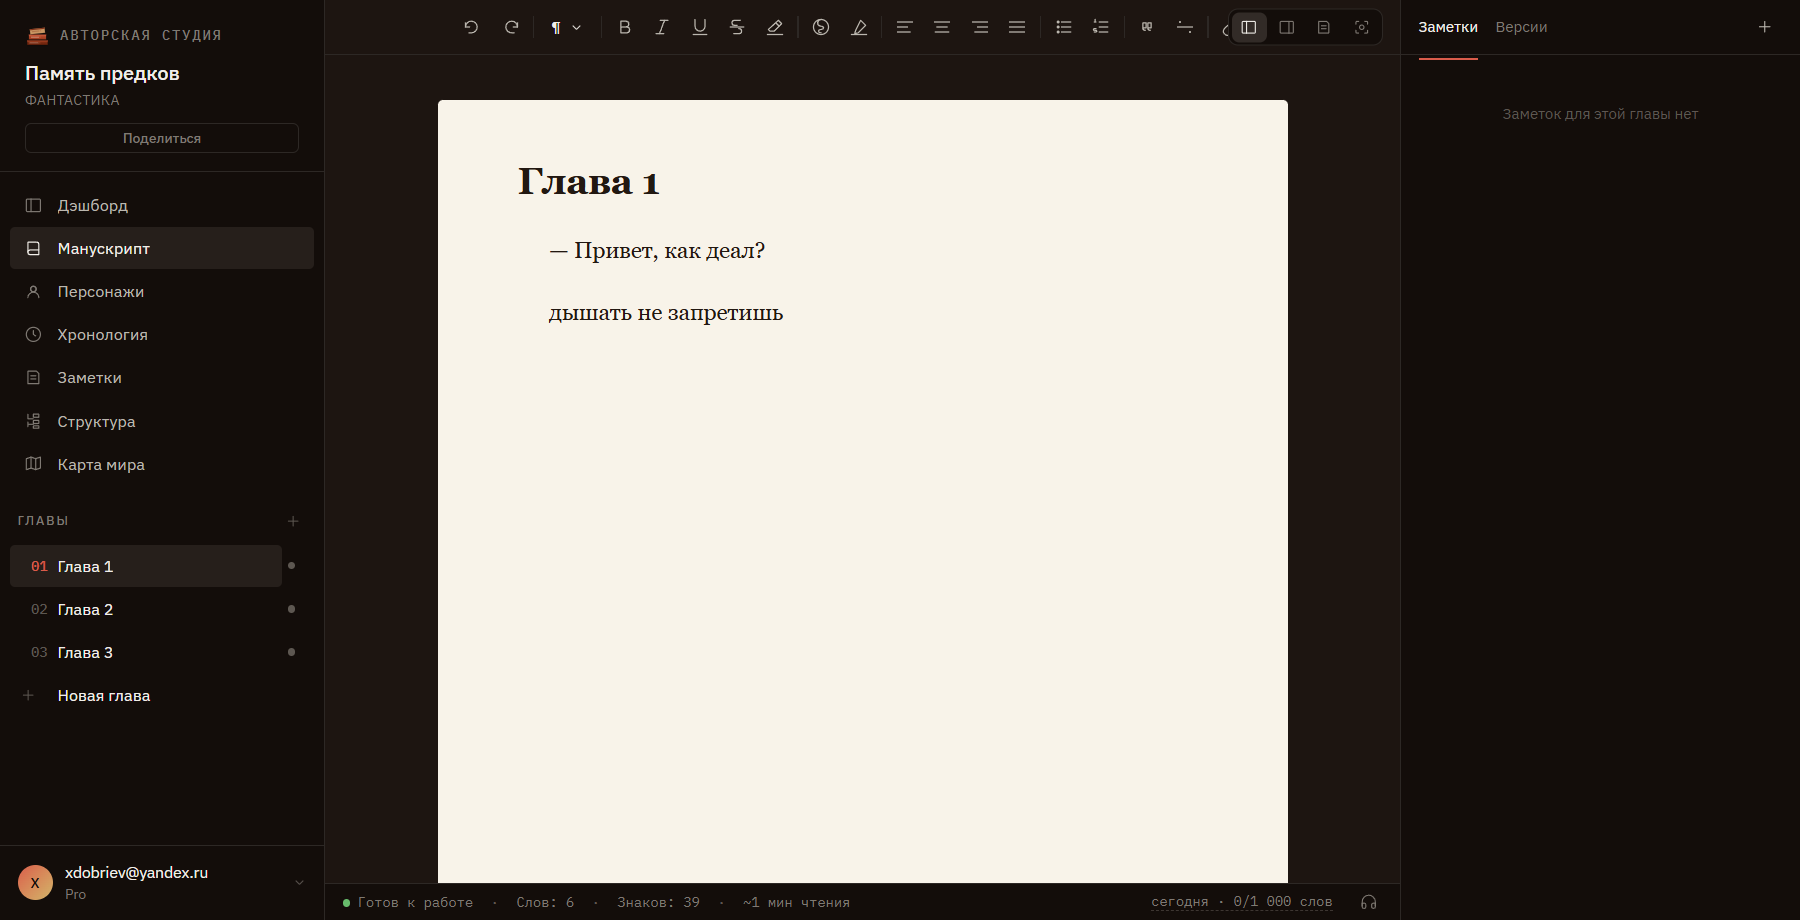
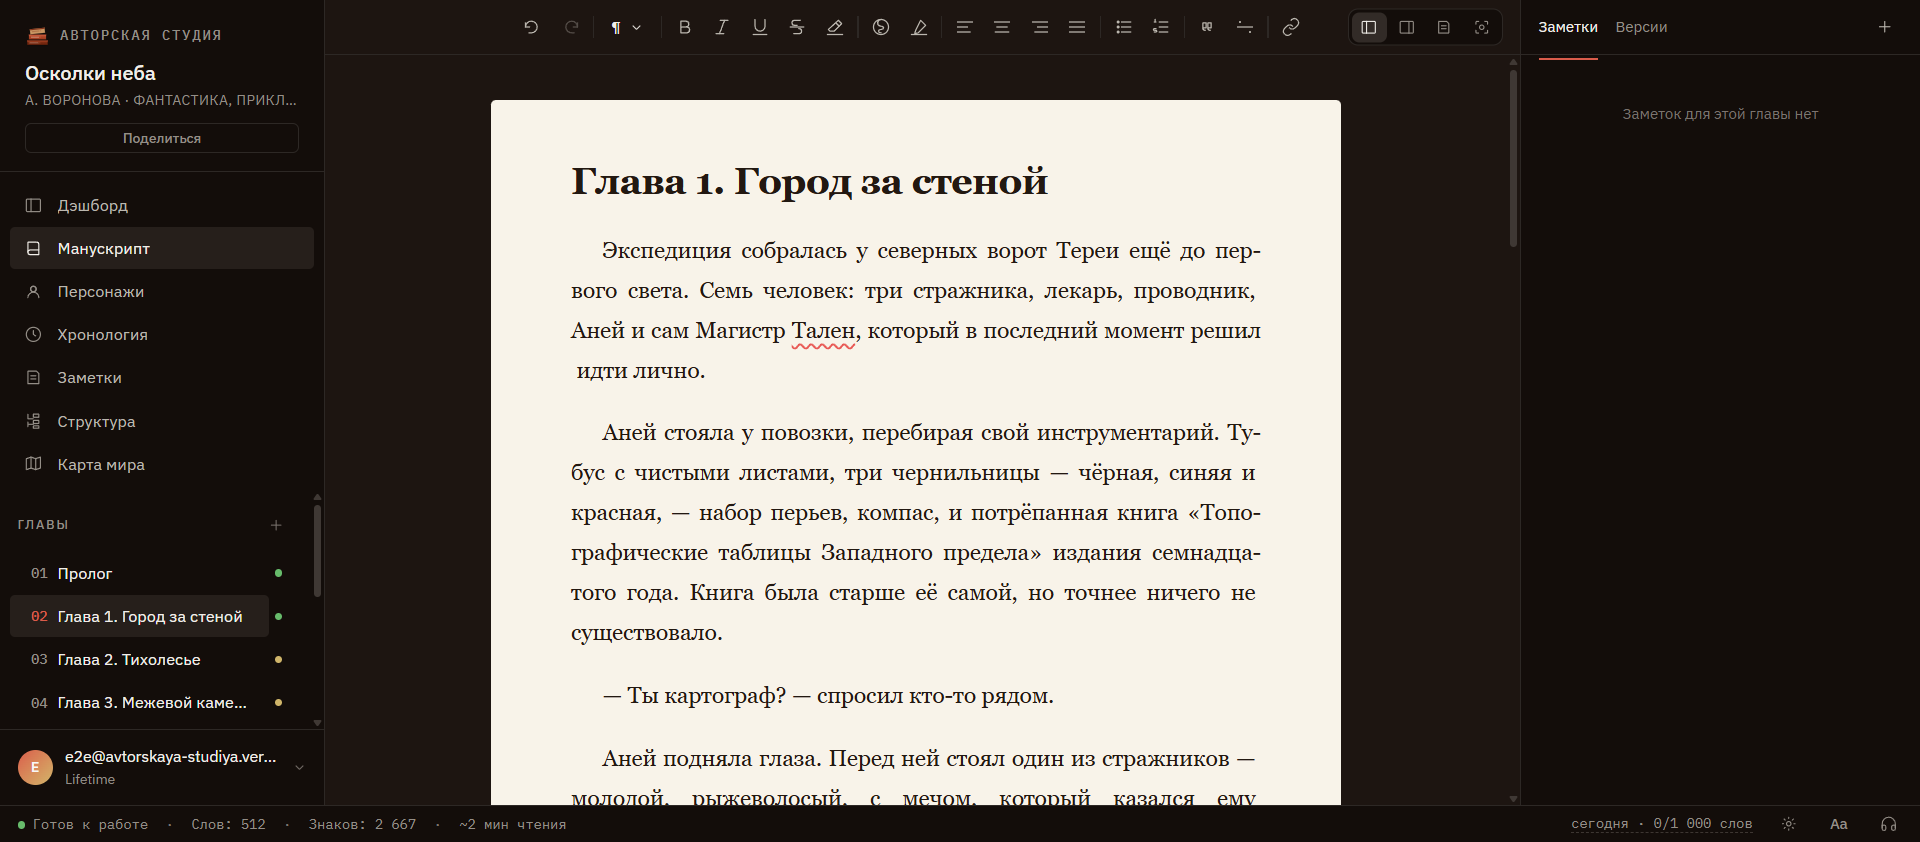
docs(readme): update screenshots with demo book, add GitHub description
Replace empty screenshots with rich demo content (book "Осколки неба"):
editor with text, dashboard with stats/heatmap, 5 characters, 10 timeline
events, 8 map locations. Set repo description for GitHub pinned repos.

diff --git a/README.md b/README.md
@@ -9,16 +9,16 @@
 
 ## Скриншоты
 
-![Редактор — режим Studio](docs/screenshots/03-editor.png)
-*Редактор в режиме Studio: сайдбар с главами, rich-text поле, панель заметок*
+![Редактор](docs/screenshots/03-editor.png)
+*Редактор: сайдбар с главами, rich-text поле, панель заметок и версий*
 
 | ![Дашборд книги](docs/screenshots/02-dashboard.png) | ![Хронология](docs/screenshots/06-timeline.png) |
 |---|---|
-| Дашборд: прогресс по словам, heatmap активности | Хронология: 15 событий по слоям |
+| Дашборд: статистика, прогресс, heatmap активности, ETA | Хронология: события по слоям (сюжет / персонаж / мир) |
 
 | ![Персонажи](docs/screenshots/05-characters.png) | ![Карта мира](docs/screenshots/04-map.png) |
 |---|---|
-| Картотека персонажей | Карта мира с режимами: Место / Связь / Панорама / Штамп |
+| Картотека персонажей: роли, связи, поиск | Карта мира: локации, связи, шаблоны, штампы, экспорт PNG |
 
 ---
 
